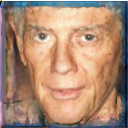
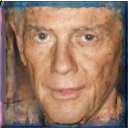
modify original img reference to albedo reference

diff --git a/alter.py b/alter.py
@@ -98,20 +98,23 @@ def albedo_sharp(al_out3, n_out2, light_out):
     cv2.imwrite(os.path.join(PROJECT_DIR, 'data/sharpening.png'), convert(Irec))
 
     # cv2.imshow("al_out3", al_out3)
-    # cv2.imshow("dst", Irec)
+    # cv2.imshow("median", median)
     # cv2.waitKey(0)
 
 
-def histogram_matching(img, ref):
-    img = cv2.imread(img)
-    ref = cv2.imread(ref)
+def histogram_matching(img, normal, lighting, ref):
+    # img = cv2.imread(img)
+    # ref = cv2.imread(ref)
+    n_out2, al_out2, light_out, al_out3, n_out3 = _decomposition(ref)
 
+    al_out3 = convert(al_out3)
+    img = convert(img)
     out = np.zeros_like(img)
     _, _, colorChannel = img.shape
     for i in range(colorChannel):  # RGB三个通道轮流来一遍
         # print(i)
         hist_img, _ = np.histogram(img[:, :, i], 256)  # get the histogram
-        hist_ref, _ = np.histogram(ref[:, :, i], 256)
+        hist_ref, _ = np.histogram(al_out3[:, :, i], 256)
         cdf_img = np.cumsum(hist_img)  # get the accumulative histogram
         cdf_ref = np.cumsum(hist_ref)
 
@@ -121,10 +124,13 @@ def histogram_matching(img, ref):
             idx = tmp.index(min(tmp))  # find the smallest number in tmp, get the index of this number
             out[:, :, i][img[:, :, i] == j] = idx
 
-    cv2.imwrite(os.path.join(PROJECT_DIR, 'data/matching.png'), out)
+    out = np.float32(out) / 255.0
+    Irec, Ishd = create_shading_recon(normal, out, lighting)
+    cv2.imwrite(os.path.join(PROJECT_DIR, 'data/matching.png'), convert(Irec))
     # cv2.imshow('img', img)
-    # cv2.imshow('ref', ref)
+    # cv2.imshow('ref', al_out3)
     # cv2.imshow('out', out)
+    # cv2.imshow('Irec', Irec)
     # cv2.waitKey(0)
 
 
@@ -147,71 +153,18 @@ def albedo_mean(img_path):
     cv2.waitKey(0)
 
 
-# def synthetic():
-#     shading = cv2.imread('data/shading.png', cv2.IMREAD_UNCHANGED)
-#     albedo = cv2.imread('data/Albedo.png', cv2.IMREAD_UNCHANGED)
-#     sh = cv2.cvtColor(shading, cv2.COLOR_GRAY2RGB)
-#     M = albedo.shape[0]
-#     albedo = np.reshape(albedo, (M, M, 3))
-#     sh = np.reshape(sh, (M, M, 3))
-#
-#     cv2.imshow("albedo", albedo)
-#     cv2.imshow("sh", sh)
-#
-#     Re = albedo * sh
-#     # h, w = Re.shape[0:2]
-#     # neww = 300
-#     # newh = int(neww * (h / w))
-#     # Re = cv2.resize(Re, (neww, newh))
-#     cv2.imshow("Re", Re)
-#     cv2.waitKey(0)
 
 
-# def synthetic2():
-#     # shading = cv2.imread('data/shading.png', cv2.IMREAD_UNCHANGED).astype(np.float32)
-#     # M = shading.shape[0]
-#     # shading = np.reshape(shading, (M, M, 3))
-#     # shading = cv2.cvtColor(shading, cv2.COLOR_BGR2RGB)
-#     albedo = cv2.imread('data/Albedo.png', cv2.IMREAD_UNCHANGED)
-#     cv2.imshow("albedo", albedo)
-#     albedo = cv2.cvtColor(albedo, cv2.COLOR_BGR2RGB)
-#     n_out2, al_out2, light_out, al_out3, n_out3 = _decomposition()
-#
-#     # 用al_out2
-#     Irec, Ishd = create_shading_recon(n_out2, al_out2, light_out)
-#     Irec = cv2.cvtColor(Irec, cv2.COLOR_RGB2BGR)
-#
-#     # 用albedo
-#     Re, Red = create_shading_recon(n_out2, albedo, light_out)
-#     Re = cv2.cvtColor(Re, cv2.COLOR_RGB2BGR)
-#     # Re = cv2.multiply(shading, albedo)
-#
-#     # M = shading.shape[0]
-#     # Re = np.reshape(shading, (M, M, 3)) * np.reshape(albedo, (M, M, 3))
-#
-#     h, w = al_out2.shape[0:2]
-#     neww = 300
-#     newh = int(neww * (h / w))
-#     albedo = cv2.resize(albedo, (neww, newh))
-#     cv2.imshow("albedo", albedo)
-#     al_out2 = cv2.resize(al_out2, (neww, newh))
-#     cv2.imshow("al_out2", al_out2)
-#     al_out3 = cv2.resize(al_out3, (neww, newh))
-#     cv2.imshow("al_out3", al_out3)
-#     Irec = cv2.resize(Irec, (neww, newh))
-#     cv2.imshow("Irec", Irec)
-#     Re = cv2.resize(Re, (neww, newh))
-#     cv2.imshow("Re", Re)
-#
-#     cv2.waitKey(0)
+
+
 
 
 if __name__ == '__main__':
-    # n_out2, al_out2, light_out, al_out3, n_out3 = _decomposition(
-    #     "D:/AoriginallyD/Cardiff-year3/final_project/SfSNet-Pytorch/Images/11.png_face.png")
+    n_out2, al_out2, light_out, al_out3, n_out3 = _decomposition(
+        "D:/AoriginallyD/Cardiff-year3/final_project/SfSNet-Pytorch/Images/4.png_face.png")
     # img = cv2.imread("D:/AoriginallyD/Cardiff-year3/final_project/SfSNet-Pytorch/Images/11.png_face.png")
-    img = "D:/AoriginallyD/Cardiff-year3/final_project/SfSNet-Pytorch/Images/11.png_face.png"
-    ref = "D:/AoriginallyD/Cardiff-year3/final_project/SfSNet-Pytorch/Images/4.png_face.png"
+    img = "D:/AoriginallyD/Cardiff-year3/final_project/SfSNet-Pytorch/Images/4.png_face.png"
+    ref = "D:/AoriginallyD/Cardiff-year3/final_project/SfSNet-Pytorch/Images/11.png_face.png"
     # change_albedo()
     # albedo_highlight("D:/AoriginallyD/Cardiff-year3/final_project/SfSNet-Pytorch/Images/4.png_face.png", 1.25, 1)
     # albedo_bilateral(al_out3, n_out2, light_out, 40)
@@ -221,5 +174,5 @@ if __name__ == '__main__':
     # synthetic()
     # synthetic2()
 
-    histogram_matching(ref, img)
+    histogram_matching(al_out3, n_out2, light_out, ref)
 

diff --git a/GUI/gui.py b/GUI/gui.py
@@ -131,8 +131,10 @@ class Gui(QWidget, Ui_Form):
         # Show the image on the label
         self.L_ShowPic_2.setPixmap(image)
 
-        path = self.img_add
-        histogram_matching(path, imgName)
+        al_out3 = self.img_al_out3
+        n_out2 = self.img_n_out2
+        light_out = self.img_light_out
+        histogram_matching(al_out3, n_out2, light_out, imgName)
 
         image2 = QtGui.QPixmap(
             "D:/AoriginallyD/Cardiff-year3/final_project/SfSNet-Pytorch/data/matching.png").scaled(
